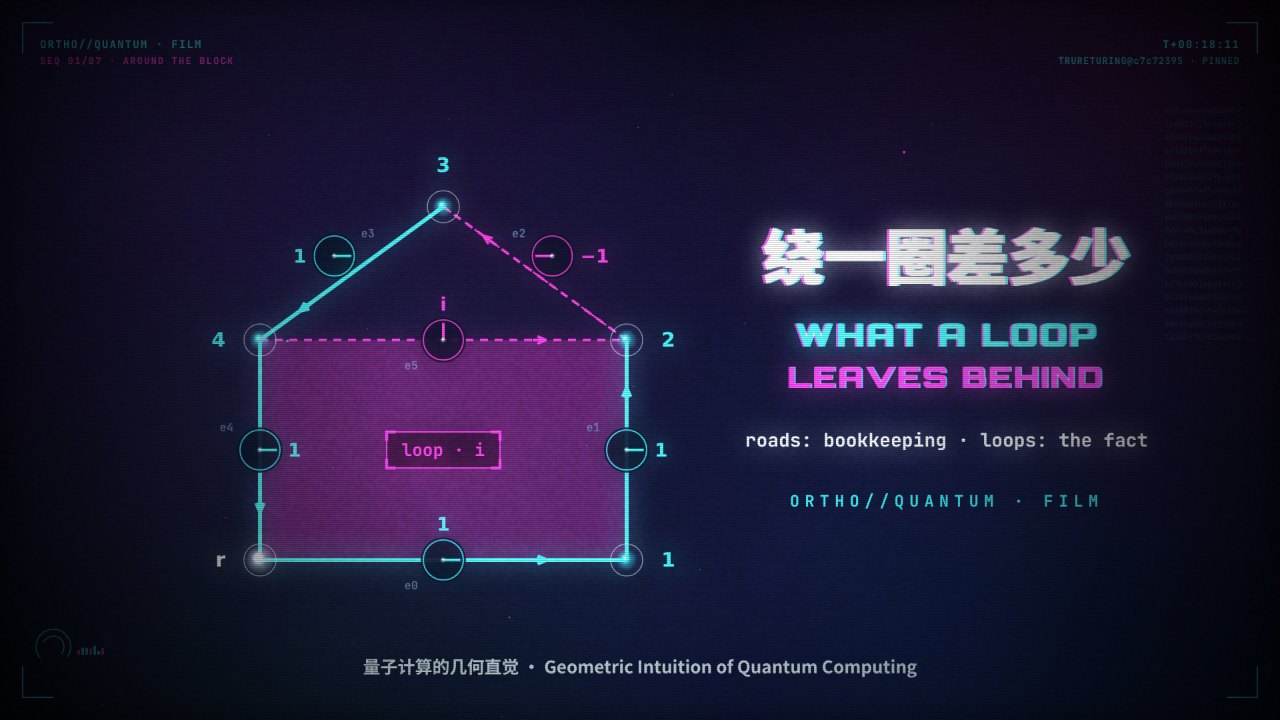
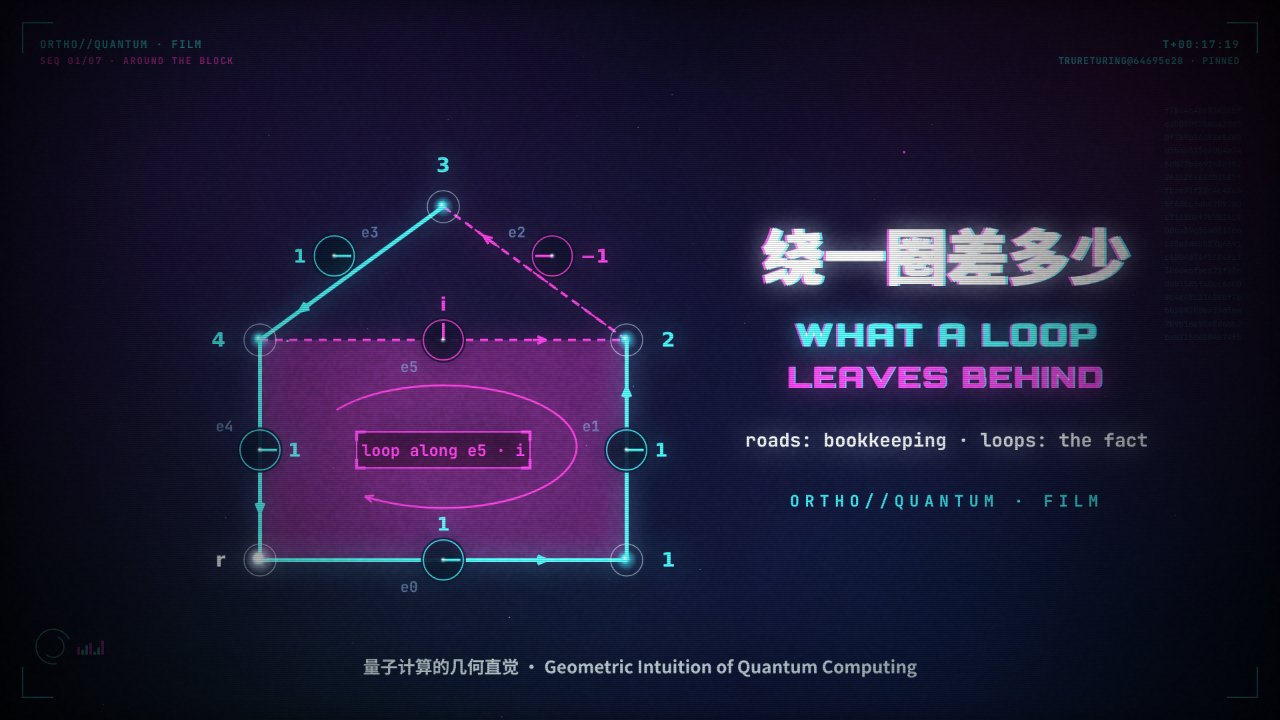
fix(films): 按复核修改 force-is-curvature
必须改：
- hook：HK_TURN 改为 [0, 30, 0, 60, 0]，转动与路牌一致，补底边左半段路牌 +0°
- tree：灰字 rp(1) = 1 改为 u ≡ 1 ⇒ rp ≡ 1
- loop：旁白改为“表盘都在转，沿每个回路连乘仍是 i 与 −1”，wobble 期间加用当前表盘现算的回路乘积读数
- loop：曲率只给最小回路，大圈叫和乐（ARGUED）
- edge：第一句只说树定理是图上可交换相位，交换子规则在任意环里成立；画面加小字
- 中英图注：三条规则在绿框，逐站相消在琥珀色框；同步各项改动与时长 2:30
建议改：
- order 芯片与旁白补上“× 这一步”；order 第 5 句切回 NUM，tree 第 4 句切到 ARGUED
- 方格回路加顺 e5 方向的环形箭头与“loop along e5 · i”（海报同步）
- 改名改用蓝色，与论证紫区分
- loop 第 1 句改为 by the inverse of its root phase
- 边名 22 px、小矩阵 24 px、补充说明 19 px
- 外圈引线终点移到五边形边上，不压 e3
- hook 加小字“转角由街规定，不由地面”
实测时长 2:30（150.12 s）；./tbook check --book quantum-geometry 0 错误。

Claude-Session: https://claude.ai/code/session_01FJGySq7rVWTRF4aH8AY9ro

diff --git a/books/quantum-geometry/films/force-is-curvature/scenes.js b/books/quantum-geometry/films/force-is-curvature/scenes.js
@@ -14,9 +14,10 @@
             ..... NamedTreePhaseTransport.selected_tree_transport (LEAN): conjuncts 1–3 (root gets 1, tree-edge
             reconstruction, endpoint covariance) are shown; the telescoping is the proof idea.
      loop   renaming each town by its inverse root phase sets the four tree roads to 1 and leaves the loop
-            coordinates rp(s e) u(e) rp(t e)⁻¹ on the chords: e5 → i, e2 → −1 (computed); that these do not move
-            under any rename is one line from conjunct 3 (computed); the word “curvature” is the physics name
-            (argued).
+            coordinates rp(s e) u(e) rp(t e)⁻¹ on the chords: e5 → i, e2 → −1 (computed); under further renames
+            the dials turn while the loop products, recomputed from the current dials, stay i (the square read
+            along e5) and −1 (one line from conjunct 3; computed); “curvature” for the smallest loops and
+            “holonomy” for bigger ones are the physics names (argued).
      edge   exact abelian phases on a graph only; the field-strength reading and non-abelian/continuum versions are
             literature results (argued); the exchange-rate story is a picture.
 
@@ -31,6 +32,8 @@ const FC_LEAN = {
   selected_tree_transport: 'D5/S3/Observer/AgencyHolonomy/NamedTreePhaseTransport.selected_tree_transport'
 };
 const FC_DEG = Math.PI / 180;
+/* the colour of a rename (a vertex gauge, a definition): blue, kept apart from the violet of argued claims */
+const FC_RN = mix(C.blue, C.white, 0.3);
 /* the map: towns and roads; ang = the turn u(e) in degrees */
 const FC_P = [[330, 780], [880, 780], [880, 450], [605, 250], [330, 450]];
 const FC_E = [
@@ -175,8 +178,8 @@ function fcDial(k, deg, a, o = {}) {
     else if (k === 3) txt(lab, x - R - 12, y + 10, { size: 28, fam: F.math, w: 700, align: 'right', c: col, a });
     else txt(lab, x + R + 12, y + 10, { size: 28, fam: F.math, w: 700, c: col, a });
   }
-  if (k === 0 || k === 5) txt(`e${k}`, x - R - 8, y + R + 14, { size: 17, fam: F.mono, w: 700, align: 'right', c: C.dim, a: a * 0.9 });
-  else txt(`e${k}`, k === 3 ? x + R + 10 : x - R - 10, y - R + 2, { size: 17, fam: F.mono, w: 700, align: k === 3 ? 'left' : 'right', c: C.dim, a: a * 0.9 });
+  if (k === 0 || k === 5) txt(`e${k}`, x - R - 8, y + R + 18, { size: 22, fam: F.mono, w: 700, align: 'right', c: C.dim, a: a * 0.9 });
+  else txt(`e${k}`, k === 3 ? x + R + 10 : x - R - 10, y - R + 2, { size: 22, fam: F.mono, w: 700, align: k === 3 ? 'left' : 'right', c: C.dim, a: a * 0.9 });
 }
 function fcTown(v, a, o = {}) {
   if (a <= 0.003) return;
@@ -191,8 +194,8 @@ function fcTown(v, a, o = {}) {
 function fcRename(v, deg, a) {
   if (a <= 0.003) return;
   const [x, y] = FC_P[v], R = 40;
-  ring(x, y, R, C.argued, a, 3);
-  line(x, y, x + R * Math.cos(deg * FC_DEG), y - R * Math.sin(deg * FC_DEG), C.argued, a, 4);
+  ring(x, y, R, FC_RN, a, 3);
+  line(x, y, x + R * Math.cos(deg * FC_DEG), y - R * Math.sin(deg * FC_DEG), FC_RN, a, 4);
 }
 /* the whole map with turns u′(e) = g(t) u(e) g(s)⁻¹ for the rename g (degrees per town) */
 function fcMap(a, g, o = {}) {
@@ -222,9 +225,9 @@ function fcTitle(S) {
 /*                            scene 1 · AROUND THE BLOCK                     */
 /* ======================================================================= */
 const HK = { x0: 300, y0: 300, x1: 860, y1: 720 };
-/* the walk: door at the bottom middle, counter-clockwise; the arrow picks up 0°, 30°, 0°, 60° on the four sides */
+/* the walk: door at the bottom middle, counter-clockwise; the arrow picks up 0° (bottom, right half), 30° (right), 0° (top), 60° (left), 0° (bottom, left half) */
 const HK_PATH = [[580, 760], [900, 760], [900, 260], [260, 260], [260, 760], [580, 760]];
-const HK_TURN = [0, 0, 30, 0, 60];
+const HK_TURN = [0, 30, 0, 60, 0];
 function hkWalk(p) {
   const seg = [];
   let L = 0;
@@ -269,11 +272,13 @@ SCENES.hook = S => {
     if (gone > 0) { line(x - R - 20, y - R - 20, x - R - 20 + 2 * (R + 20) * gone, y - R - 20 + 2 * (R + 20) * gone, C.white, da * 0.9, 6); }
   }
   /* line 2: street signs */
-  const sa = a * Q(S, 2, 'each street only tells you', 0.8);
+  const sa = a * Q(S, 2, 'street only tells you', 0.8);
   if (sa > 0.003) {
-    const signs = [[740, 760, '+0°'], [900, 510, '+30°'], [580, 260, '+0°'], [260, 510, '+60°']];
-    signs.forEach(([x, y, s], i) => chip(x, y, 108, 46, s, C.cyan, sa * clamp((u - phraseAt(S, 2, 'each street only tells you') - 0.25 * i) / 0.4), 24));
-    txt('each street: how to carry · 每条街：怎么搬', 1420, 820, { size: 24, fam: F.zh, w: 700, align: 'center', c: C.cyan, a: sa });
+    /* one sign per stretch of the walk, in the order walked: the same turns as HK_TURN */
+    const signs = [[740, 760, '+0°'], [900, 510, '+30°'], [580, 260, '+0°'], [260, 510, '+60°'], [420, 760, '+0°']];
+    signs.forEach(([x, y, s], i) => chip(x, y, 108, 46, s, C.cyan, sa * clamp((u - phraseAt(S, 2, 'street only tells you') - 0.25 * i) / 0.4), 24));
+    txt('each street: how to carry · 每条街：怎么搬', 1420, 800, { size: 24, fam: F.zh, w: 700, align: 'center', c: C.cyan, a: sa });
+    txt('the streets, not the ground, set the turn · 转角由街规定，不由地面', 1420, 840, { size: 20, fam: F.zh, w: 700, align: 'center', c: C.argued, a: sa });
   }
 };
 
@@ -290,7 +295,7 @@ function odHouse(x, y, v, a, col) {
 SCENES.order = S => {
   const u = S.u, a = fcFade(S);
   if (a <= 0) return;
-  badgeQ(S, [[0, null, 'computed'], [3, 'Lean checks', 'lean']]);
+  badgeQ(S, [[0, null, 'computed'], [3, 'Lean checks', 'lean'], [4, null, 'computed']]);
   /* the two houses and the swap */
   const fa = a * Q(S, 1, 'A field f', 0.7);
   odHouse(270, 470, fa > 0.01 ? 2 : null, a * clamp(fa + at(S, 0, 0.6)), C.cyan);
@@ -332,10 +337,10 @@ SCENES.order = S => {
     fcRich([['if  U f = f′ U  then  U f − f U = (f′ − f) U', C.white]], 970, 690, { size: 30, a: la * Q(S, 3, 'If f, carried', 0.6) });
     fcLean(970, 750, FC_LEAN.covariant_commutator_formula, la, { size: 20 });
     x = fcRich([['here  (f′ − f) U = ', C.cyan]], 970, 818, { size: 24, a: la * Q(S, 3, 'that shift times', 0.6), fam: F.mono });
-    fcMat(x + 4, 818, fcMul(fcSub(FC_F2, FC_F), FC_U), C.now, la * Q(S, 3, 'that shift times', 0.6), 20, 40);
+    fcMat(x + 4, 818, fcMul(fcSub(FC_F2, FC_F), FC_U), C.now, la * Q(S, 3, 'that shift times', 0.6), 24, 46);
   }
   const ma = a * at(S, 4, 0.6);
-  if (ma > 0.003) chip(485, 860, 640, 56, 'gap = change of f along the step · 差 = 场沿这一步的变化', C.now, ma, 22, F.zh);
+  if (ma > 0.003) chip(485, 860, 640, 56, 'gap = (change of f) × step · 差 = 场的变化 × 这一步', C.now, ma, 22, F.zh);
 };
 
 /* ======================================================================= */
@@ -347,14 +352,14 @@ SCENES.towns = S => {
   badgeQ(S, [[0, null, 'computed'], [1, 'Think of exchange rates', 'argued'], [2, null, 'computed']]);
   /* rename: town 2 turns by +90° on line 1 and back on line 2; town 1 turns a full circle on line 2 */
   const g = [0, 0, 0, 0, 0];
-  const r2 = Q(S, 1, 'rename its own coin', 1.6), back = Q(S, 2, 'Renaming its two ends', 1.0);
+  const r2 = Q(S, 1, 'rename its own coin', 1.6), back = Q(S, 2, 'renaming its ends', 1.0);
   g[2] = 90 * ease(r2) * (1 - ease(back));
   const spin = Q(S, 2, 'set it to anything', 3.0, 0.2);
   g[1] = 360 * ease(spin);
   const roads = FC_E.map((e, k) => {
     const hot2 = r2 > 0 && back < 1 && (e.s === 2 || e.t === 2);
     const hot1 = spin > 0 && spin < 1 && (e.s === 1 || e.t === 1);
-    return { col: k === 0 && spin > 0 && spin < 1 ? C.now : hot2 || hot1 ? C.argued : C.white, dial: 1 };
+    return { col: k === 0 && spin > 0 && spin < 1 ? C.now : hot2 || hot1 ? FC_RN : C.white, dial: 1 };
   });
   fcMap(a * at(S, 0, 0.8), g, { roads });
   fcRename(2, g[2], a * clamp(r2 * 3) * (1 - back));
@@ -364,9 +369,9 @@ SCENES.towns = S => {
   txt('u(e): a unit complex number per road', 1110, 252, { size: 24, fam: F.mono, w: 700, c: C.white, a: a * at(S, 0, 0.6) });
   txt('每条路一个单位复数 |u(e)| = 1', 1110, 292, { size: 24, fam: F.zh, w: 700, c: C.white, a: a * at(S, 0, 0.6) });
   const ra = a * Q(S, 1, 'rename its own coin', 0.6);
-  fcRich([["rename g:  u′(e) = g(end)·u(e)·g(start)⁻¹", C.argued]], 1110, 360, { size: 25, a: ra, fam: F.mono });
-  txt('town 2 renamed by i · 小镇 2 改名乘 i', 1110, 412, { size: 22, fam: F.zh, w: 700, c: C.argued, a: ra * (1 - back) });
-  txt('e1: 1 → i    e2: 1 → −i    e5: i → −1', 1110, 450, { size: 22, fam: F.mono, w: 700, c: C.argued, a: a * Q(S, 1, 're-quote', 0.6) * (1 - back) });
+  fcRich([["rename g:  u′(e) = g(end)·u(e)·g(start)⁻¹", FC_RN]], 1110, 360, { size: 25, a: ra, fam: F.mono });
+  txt('town 2 renamed by i · 小镇 2 改名乘 i', 1110, 412, { size: 22, fam: F.zh, w: 700, c: FC_RN, a: ra * (1 - back) });
+  txt('e1: 1 → i    e2: 1 → −i    e5: i → −1', 1110, 450, { size: 22, fam: F.mono, w: 700, c: FC_RN, a: a * Q(S, 1, 're-quote', 0.6) * (1 - back) });
   /* the analogy, labelled as such */
   const aa = a * Q(S, 1, 'Think of exchange rates', 0.6);
   if (aa > 0.003) {
@@ -375,7 +380,7 @@ SCENES.towns = S => {
     txt('小镇 = 一种货币 · 路 = 汇率 · 改名 = 换币值单位', 1110, 620, { size: 22, fam: F.zh, w: 700, c: C.argued, a: aa });
     txt('(here a rate is a turn on a circle · 这里的“汇率”是转角)', 1110, 660, { size: 18, fam: F.zh, w: 700, c: C.dim, a: aa });
   }
-  const na = a * Q(S, 2, 'means nothing by itself', 0.6);
+  const na = a * Q(S, 2, 'means nothing', 0.6);
   if (na > 0.003) chip(1460, 770, 700, 60, 'one road alone: any value · 单独一条路：任意值', C.now, na, 24, F.zh);
 };
 
@@ -387,7 +392,7 @@ const TR_ROUTE = [0, 4, 3];
 SCENES.tree = S => {
   const u = S.u, a = fcFade(S);
   if (a <= 0) return;
-  badgeQ(S, [[0, null, 'computed'], [2, 'Lean checks', 'lean']]);
+  badgeQ(S, [[0, null, 'computed'], [2, 'Lean checks', 'lean'], [3, null, 'argued']]);
   const ta = Q(S, 0, 'a tree of official roads', 0.8);
   const roads = FC_E.map(e => e.tree ? { col: mix(C.white, C.cyan, ta), lw: 3 + 4 * ta, a: 0.85 } : { col: C.dim, dash: ta > 0.2, a: 0.7, dial: 1 - 0.5 * ta });
   /* line 1: walk the route r → 4 → 3 */
@@ -407,7 +412,7 @@ SCENES.tree = S => {
   /* the table of root phases */
   panel(1080, 180, 760, 290, a * ta, C.cyan, 'ROOT PHASE · 根相位');
   txt('one tree route from r, multiplied · 沿唯一树路线连乘', 1110, 248, { size: 21, fam: F.zh, w: 700, c: C.dim, a: a * ta });
-  const show = Q(S, 1, "That is the town's root phase", 0.8);
+  const show = Q(S, 1, "that is the town's root phase", 0.8);
   ['r', '1', '2', '3', '4'].forEach((nm, v) => {
     const x = 1130 + v * 140;
     txt(nm, x, 316, { size: 28, fam: F.math, w: 700, align: 'center', c: v ? C.cyan : C.white, a: a * ta });
@@ -421,7 +426,7 @@ SCENES.tree = S => {
     panel(1080, 500, 760, 300, la, C.lean, 'ANY GRAPH, ANY TREE · 任意图、任意树');
     const rows = [['1  rp(r) = 1', 'the capital gets one'], ['2  tree road e:  rp(t e) = u(e)·rp(s e)', 'each tree road adds'], ['3  rename g:  rp(a) ↦ g(a)·rp(a)·g(r)⁻¹', 'renaming touches only the two ends']];
     rows.forEach(([f, en], i) => txt(f, 1104, 568 + i * 52, { size: 23, fam: F.mono, w: 700, c: C.white, a: la * Q(S, 2, en, 0.5) }));
-    txt('(+ 3 more: continuous, multiplicative, rp(1) = 1)', 1104, 718, { size: 17, fam: F.mono, w: 700, c: C.dim, a: la });
+    txt('(+ 3 more: continuous, multiplicative, u ≡ 1 ⇒ rp ≡ 1)', 1104, 718, { size: 19, fam: F.mono, w: 700, c: C.dim, a: la });
     fcLean(1104, 770, FC_LEAN.selected_tree_transport, la, { size: 19 });
   }
   /* line 3: telescoping */
@@ -429,13 +434,13 @@ SCENES.tree = S => {
   if (za > 0.003) {
     panel(1080, 500, 760, 300, za, C.now, 'TOWNS IN BETWEEN CANCEL · 中间相消');
     txt('rule 3, along a route r → v₁ → v₂ → a', 1104, 566, { size: 20, fam: F.mono, w: 700, c: C.dim, a: za });
-    const parts = [['g(a)', C.now], ['u', C.white], ['g(v₂)⁻¹', C.argued], [' · ', C.dim], ['g(v₂)', C.argued], ['u', C.white], ['g(v₁)⁻¹', C.argued], [' · ', C.dim], ['g(v₁)', C.argued], ['u', C.white], ['g(r)⁻¹', C.now]];
+    const parts = [['g(a)', C.now], [' u ', C.white], ['g(v₂)⁻¹', FC_RN], [' · ', C.dim], ['g(v₂)', FC_RN], [' u ', C.white], ['g(v₁)⁻¹', FC_RN], [' · ', C.dim], ['g(v₁)', FC_RN], [' u ', C.white], ['g(r)⁻¹', C.now]];
     const size = 26;
     let x = 1104; const y = 650, strike = Q(S, 3, 'takes back', 0.8);
     parts.forEach(([s, col]) => {
       const w = tw(s, size, F.math, 700);
       txt(s, x, y, { size, fam: F.math, w: 700, c: col, a: za });
-      if (col === C.argued && strike > 0) line(x - 2, y - 8, x - 2 + (w + 4) * strike, y - 8, C.white, za, 3);
+      if (col === FC_RN && strike > 0) line(x - 2, y - 8, x - 2 + (w + 4) * strike, y - 8, C.white, za, 3);
       x += w + 6;
     });
     fcRich([['→  ', C.white], ['g(a)', C.now], [' · (u u u) · ', C.white], ['g(r)⁻¹', C.now]], 1104, 740, { size: 28, a: za * strike });
@@ -454,13 +459,22 @@ function lpPoly(vs, a, fill, dash) {
   if (dash) { ctx.setLineDash([10, 8]); ctx.strokeStyle = C.mag; ctx.lineWidth = 2.5; ctx.stroke(); }
   ctx.restore();
 }
+/* the direction in which the square's loop reads i: along e5, 4 → 2 → 1 → 0 → 4 (clockwise on screen) */
+function lpLoopArrow(a) {
+  if (a <= 0.003) return;
+  const cx = 605, cy = 610, rx = 200, ry = 92, a0 = -2.5, a1 = 2.2;
+  ctx.save(); ctx.globalAlpha = a * 0.8; ctx.strokeStyle = C.mag; ctx.lineWidth = 3;
+  ctx.beginPath(); ctx.ellipse(cx, cy, rx, ry, 0, a0, a1, false); ctx.stroke(); ctx.restore();
+  const ex = cx + rx * Math.cos(a1), ey = cy + ry * Math.sin(a1), tx = -rx * Math.sin(a1), ty = ry * Math.cos(a1), tn = Math.hypot(tx, ty);
+  arrow(ex - 20 * tx / tn, ey - 20 * ty / tn, ex, ey, C.mag, a * 0.8, 3);
+}
 SCENES.loop = S => {
   const u = S.u, a = fcFade(S);
   if (a <= 0) return;
-  badgeQ(S, [[0, null, 'computed'], [2, 'what physicists call', 'argued']]);
+  badgeQ(S, [[0, null, 'computed'], [3, null, 'argued']]);
   /* line 0: comb — rename each town by rp(v)⁻¹, gradually; line 2: arbitrary renames wobble */
   const cmb = ease(Q(S, 0, 'rename every town', 2.6));
-  const wob = Q(S, 2, 'No renaming', 0.6) * (1 - at(S, 3, 0.8));
+  const wob = Q(S, 2, 'Rename however you like', 0.6) * (1 - at(S, 3, 0.8));
   const g = FC_RP.map((d, v) => -(d === 270 ? -90 : d) * cmb + wob * 70 * Math.sin(1.7 * S.u + 1.3 * v) * (v ? 1 : 0.6));
   const la = Q(S, 1, 'outside the tree', 0.8);
   /* the loops behind the map */
@@ -471,30 +485,34 @@ SCENES.loop = S => {
   for (let v = 1; v < 5; v++) fcRename(v, g[v], a * clamp(Q(S, 0, 'rename every town', 0.5)) * 0.85);
   /* the loop chips */
   if (la > 0.003) {
-    chip(605, 615, 170, 54, 'loop · i', C.mag, a * la, 26, F.mono);
-    ctx.save(); ctx.setLineDash([4, 6]); line(322, 252, 545, 294, C.mag, a * la * Q(S, 1, 'minus one', 0.6) * 0.7, 2); ctx.restore();
+    lpLoopArrow(a * la);
+    chip(605, 615, 260, 54, 'loop along e5 · i', C.mag, a * la, 24, F.mono);
+    ctx.save(); ctx.setLineDash([4, 6]); line(322, 252, 372, 420, C.mag, a * la * Q(S, 1, 'minus one', 0.6) * 0.7, 2); ctx.restore();
     chip(190, 240, 260, 54, 'outer loop · −1', C.mag, a * la * Q(S, 1, 'minus one', 0.6), 26, F.mono);
   }
   /* the panel */
   panel(1080, 180, 760, 330, a, C.cyan, 'COMBED FLAT · 梳平');
-  txt('rename g(v) = rp(v)⁻¹ · 按根相位倒数改名', 1110, 250, { size: 22, fam: F.zh, w: 700, c: C.argued, a });
+  txt('rename g(v) = rp(v)⁻¹ · 按根相位倒数改名', 1110, 250, { size: 22, fam: F.zh, w: 700, c: FC_RN, a });
   txt('tree roads e0 e1 e3 e4 → 1', 1110, 300, { size: 26, fam: F.mono, w: 700, c: C.cyan, a: a * Q(S, 0, 'Every tree road reads one', 0.6) });
   const ka = a * la;
   txt('chord = rp(start)·u·rp(end)⁻¹', 1110, 356, { size: 22, fam: F.mono, w: 700, c: C.mag, a: ka });
   txt('e5: i · i · (i)⁻¹ = i', 1110, 404, { size: 26, fam: F.mono, w: 700, c: C.mag, a: ka });
   txt('e2: i · 1 · (−i)⁻¹ = −1', 1110, 450, { size: 26, fam: F.mono, w: 700, c: C.mag, a: ka * Q(S, 1, 'minus one', 0.6) });
-  txt('c = m + 1 − n = 6 + 1 − 5 = 2 loops · 2 个回路', 1110, 492, { size: 19, fam: F.zh, w: 700, c: C.dim, a: ka * Q(S, 1, 'One number per loop', 0.6) });
-  /* line 2: invariance and the name */
-  const ia = a * Q(S, 2, 'No renaming', 0.6);
+  txt('c = m + 1 − n = 6 + 1 − 5 = 2 loops · 2 个回路', 1110, 492, { size: 19, fam: F.zh, w: 700, c: C.dim, a: ka * Q(S, 1, 'one per loop', 0.6) });
+  /* line 2: the dials move, the loop products, recomputed from the current dials, do not */
+  const ia = a * Q(S, 2, 'Rename however you like', 0.6);
   if (ia > 0.003) {
-    panel(1080, 540, 760, 230, ia, C.mag, 'WHAT NO RENAME MOVES · 改名动不了的');
-    txt('rule 3: g(start), g(end), g(r) all cancel', 1110, 610, { size: 22, fam: F.mono, w: 700, c: C.white, a: ia });
-    txt('由第 3 条一步推出：两端与首都的改名全抵消', 1110, 648, { size: 22, fam: F.zh, w: 700, c: C.white, a: ia });
-    const na = ia * Q(S, 2, 'what physicists call', 0.6);
-    txt('“curvature”: the physics name · 物理学的叫法', 1110, 706, { size: 22, fam: F.zh, w: 700, c: C.argued, a: na });
-    txt('(lattice gauge theory · 格点规范理论)', 1110, 740, { size: 18, fam: F.zh, w: 700, c: C.argued, a: na });
+    const dial = k => FC_E[k].ang + g[FC_E[k].t] - g[FC_E[k].s];
+    const sq = dial(5) - dial(1) - dial(0) - dial(4), outer = dial(2) + dial(3) + dial(4) + dial(0) + dial(1);
+    panel(1080, 540, 760, 250, ia, C.mag, 'DIALS TURN, LOOPS STAY · 表盘在转，回路不动');
+    txt(`dials now · 表盘现在   e5 ${fcMod(dial(5))}°   e2 ${fcMod(dial(2))}°`, 1110, 600, { size: 22, fam: F.zh, w: 700, c: C.white, a: ia });
+    txt(`∏ square along e5 = ${fcName(sq)}    ∏ outer = ${fcName(outer)}`, 1110, 642, { size: 25, fam: F.mono, w: 700, c: C.mag, a: ia });
+    txt('rule 3: the renames cancel around a loop · 由第 3 条一步推出', 1110, 680, { size: 18, fam: F.zh, w: 700, c: C.dim, a: ia });
+    const na = a * at(S, 3, 0.6);
+    txt('smallest loop: “curvature” · 最小的圈：曲率', 1110, 730, { size: 22, fam: F.zh, w: 700, c: C.argued, a: na });
+    txt('bigger loop: “holonomy” · 大圈：和乐（物理叫法）', 1110, 766, { size: 20, fam: F.zh, w: 700, c: C.argued, a: na });
   }
-  stamp('THE LOOP IS THE FACT', 1460, 830, Q(S, 3, 'The loop is the fact', 0.5), C.mag, 34, -0.05);
+  stamp('THE LOOP IS THE FACT', 1460, 840, Q(S, 4, 'The loop is the fact', 0.5), C.mag, 34, -0.05);
 };
 
 /* ======================================================================= */
@@ -510,8 +528,8 @@ SCENES.edge = S => {
   fcMap(a * 0.55, FC_RP.map(d => -(d === 270 ? -90 : d)), { roads: FC_E.map(e => e.tree ? { col: C.cyan, lw: 6 } : { col: C.mag, dash: true, lw: 4 }), capital: true });
   ctx.restore();
   const rows = [
-    { k: 0, col: C.cyan, en: 'exact U(1) phases on a graph', zh: '图上精确的 U(1) 相位，转角可交换', note: 'no limit, no smooth space · 没有极限，没有光滑空间' },
-    { k: 1, col: C.argued, en: 'loop ↔ field strength F; SU(N) loops', zh: '回路对上场强；不可交换的矩阵版本', note: 'literature results, not formalized here · 文献结果，本书未形式化' },
+    { k: 0, col: C.cyan, en: 'tree theorem: exact U(1) phases on a graph', zh: '树定理：图上精确的 U(1) 相位，转角可交换', note: 'commutator rule: any ring · 交换子：任意环 · no limit, no smooth space · 没有极限' },
+    { k: 1, col: C.argued, en: 'small loop ↔ field strength F; SU(N) loops', zh: '小回路对上场强；不可交换的矩阵版本', note: 'literature results, not formalized here · 文献结果，本书未形式化' },
     { k: 2, col: C.argued, en: 'exchange rates = a picture', zh: '汇率只是比方', note: 'a ladder for intuition, not a proof · 梯子，不是证明' }
   ];
   rows.forEach((rw, i) => {
@@ -543,7 +561,8 @@ FILM.poster = () => {
   lpPoly(LP_SQUARE, 1, 0.22, false);
   lpPoly(LP_PENT, 1, 0, true);
   fcMap(1, FC_RP.map(d => -(d === 270 ? -90 : d)), { roads: FC_E.map(e => e.tree ? { col: C.cyan, lw: 6, a: 0.9 } : { col: C.mag, dash: true, lw: 4, a: 0.9 }), capital: true });
-  chip(605, 615, 170, 54, 'loop · i', C.mag, 1, 26, F.mono);
+  lpLoopArrow(1);
+  chip(605, 615, 260, 54, 'loop along e5 · i', C.mag, 1, 24, F.mono);
   ctx.restore();
   txt(DATA.film.title_zh, 1420, 420, { size: 92, fam: F.zh, w: 900, align: 'center', c: C.white, ab: 4 });
   txt('WHAT A LOOP', 1420, 520, { size: 48, fam: F.orb, w: 900, align: 'center', c: C.cyan, ab: 3, ls: 5 });

diff --git a/books/quantum-geometry/en/ch18-spinors-and-gauge-curvature.md b/books/quantum-geometry/en/ch18-spinors-and-gauge-curvature.md
@@ -368,7 +368,7 @@ In $\operatorname{treeSupport}(s, t, T)$, the unique simple path from $r$ to $r$
 Working the commutator of 18.2 and the tree transport above by hand on one small map shows exactly what the next section pursues: the phases on tree branches can be renamed away, while the turn that comes back around a loop cannot.
 
 ::: {.film src="force-is-curvature"}
-**What a loop leaves behind (2 min 29 s).** The film opens with an amber arrow carried around a city block and a violet "dial on the wall of the universe" that gets struck out; this opening and the exchange-rate story that follows are labelled as pictures. Two houses and the swap $U = \begin{pmatrix} 0 & 1 \\ 1 & 0 \end{pmatrix}$ act on the field $f = \operatorname{diag}(2, 5)$: reading then stepping and stepping then reading differ by the amber $\begin{pmatrix} 0 & 3 \\ -3 & 0 \end{pmatrix}$, which is $(f' - f)U$ with $f' = \operatorname{diag}(5, 2)$ ([@prop-covariant-commutator]). On a map of five towns and six roads, each road's dial is a unit complex number; when the violet rename pointer turns town 2, the three roads touching it re-quote together. With capital $r$ and the four cyan tree roads, the root phases are $1, i, i, -i, i$, and the three rules (the capital gets $1$, each tree road adds its own turn, a rename touches only the two ends), together with the telescoping of the towns in between, appear in the green frame (properties 1–3 of [@thm-tree-phase-transport]). After renaming each town by its inverse root phase, the cyan tree roads all read $1$ and the two magenta dashed roads outside the tree keep $i$ and $-1$, the phases of the magenta square and the outer loop; under further arbitrary renames every dial turns while the two loop numbers stay put, a step that follows directly from property 3. All numbers in the film are computed on screen; calling the loop phase curvature and matching it with a field strength, and continuum gauge fields that do not commute, are literature results not formalized in this book.
+**What a loop leaves behind (2 min 30 s).** The film opens with an amber arrow carried around a city block, turning only on the two streets signed $+30^\circ$ and $+60^\circ$, and a violet "dial on the wall of the universe" that gets struck out; this opening and the exchange-rate story that follows are labelled as pictures. Two houses and the swap $U = \begin{pmatrix} 0 & 1 \\ 1 & 0 \end{pmatrix}$ act on the field $f = \operatorname{diag}(2, 5)$: reading then stepping and stepping then reading differ by the amber $\begin{pmatrix} 0 & 3 \\ -3 & 0 \end{pmatrix}$, which is $(f' - f)U$ with $f' = \operatorname{diag}(5, 2)$ ([@prop-covariant-commutator]). On a map of five towns and six roads, each road's dial is a unit complex number; when the blue rename pointer turns town 2, the three roads touching it re-quote together. With capital $r$ and the four cyan tree roads, the root phases are $1, i, i, -i, i$; the three rules (the capital gets $1$, each tree road adds its own turn, a rename touches only the two ends) appear in the green frame (properties 1–3 of [@thm-tree-phase-transport]), and the telescoping of the towns in between follows in an amber frame. After renaming each town by its inverse root phase, the cyan tree roads all read $1$ and the two magenta dashed roads outside the tree keep $i$ and $-1$: the magenta square, read along $e_5$ (the magenta loop arrow), gives $i$, and the outer loop gives $-1$. Under further arbitrary renames every dial turns, while the magenta readout, recomputed from the current dials, keeps both loop products at $i$ and $-1$, a step that follows directly from property 3. All numbers in the film are computed on screen; "curvature" for the turn around the smallest loops and "holonomy" for bigger ones are the physics names, and matching it with a field strength, as well as continuum gauge fields that do not commute, are literature results not formalized in this book.
 :::
 
 ## 18.4 Loop phases and anchored gauge equivalence {#sec-gauge-loop-coordinates}

diff --git a/books/quantum-geometry/zh/ch18-spinors-and-gauge-curvature.md b/books/quantum-geometry/zh/ch18-spinors-and-gauge-curvature.md
@@ -368,7 +368,7 @@ $$
 把 18.2 的交换子与这里的树输运放在一张小地图上手算一遍，就能看清下一节要追问的东西：树枝上的相位可以改名改掉，绕回来的那一圈改不掉。
 
 ::: {.film src="force-is-curvature"}
-**绕一圈差多少（2 分 29 秒）。** 开场拿着琥珀色的箭头绕街区一圈，紫色的“宇宙大表盘”被划掉，这一段与之后的汇率比方都标作比方。两座房子之间的对调 $U = \begin{pmatrix} 0 & 1 \\ 1 & 0 \end{pmatrix}$ 作用在场 $f = \operatorname{diag}(2, 5)$ 上：先读再走与先走再读相差琥珀色的 $\begin{pmatrix} 0 & 3 \\ -3 & 0 \end{pmatrix}$，正是 $(f' - f)U$，$f' = \operatorname{diag}(5, 2)$（[@prop-covariant-commutator]）。五座小镇、六条路的地图上，每条路的表盘是一个单位复数；紫色的改名指针拧动小镇 2 时，连着它的三条路一起重新报价。选首都 $r$ 与青色的四条树路后，根相位依次是 $1, i, i, -i, i$，三条规则（首都为 $1$、树路添上自己的转角、改名只动首尾两端）与中间小镇逐站抵消的式子出现在绿框里（[@thm-tree-phase-transport] 第 1–3 条）。按根相位的倒数改名后，青色树路全部读作 $1$，树外两条品红虚线上剩下 $i$ 与 $-1$，即品红方格与外圈两个回路的相位；再任意改名，表盘都在转，两个回路的数不动——这一步由第 3 条直接推出。片中数字都是屏幕上的计算；把回路相位叫作曲率并对上场强，以及不可交换的连续规范场，都是文献结果，本书没有形式化。
+**绕一圈差多少（2 分 30 秒）。** 开场拿着琥珀色的箭头绕街区一圈，箭头只在标着 $+30^\circ$ 与 $+60^\circ$ 的两条街上转动，紫色的“宇宙大表盘”被划掉，这一段与之后的汇率比方都标作比方。两座房子之间的对调 $U = \begin{pmatrix} 0 & 1 \\ 1 & 0 \end{pmatrix}$ 作用在场 $f = \operatorname{diag}(2, 5)$ 上：先读再走与先走再读相差琥珀色的 $\begin{pmatrix} 0 & 3 \\ -3 & 0 \end{pmatrix}$，正是 $(f' - f)U$，$f' = \operatorname{diag}(5, 2)$（[@prop-covariant-commutator]）。五座小镇、六条路的地图上，每条路的表盘是一个单位复数；蓝色的改名指针拧动小镇 2 时，连着它的三条路一起重新报价。选首都 $r$ 与青色的四条树路后，根相位依次是 $1, i, i, -i, i$；三条规则（首都为 $1$、树路添上自己的转角、改名只动首尾两端）出现在绿框里（[@thm-tree-phase-transport] 第 1–3 条），中间小镇逐站抵消的式子随后出现在琥珀色框里。按根相位的倒数改名后，青色树路全部读作 $1$，树外两条品红虚线上剩下 $i$ 与 $-1$：品红方格顺着 $e_5$ 的方向（品红环形箭头）读作 $i$，外圈读作 $-1$。再任意改名，每只表盘都在转，品红读数用当前表盘现算的两个回路连乘仍是 $i$ 与 $-1$——这一步由第 3 条直接推出。片中数字都是屏幕上的计算；绕最小回路的转角叫曲率、大回路的叫和乐，是物理上的叫法，把它对上场强以及不可交换的连续规范场，都是文献结果，本书没有形式化。
 :::
 
 ## 18.4 闭合回路相位与锚定规范等价 {#sec-gauge-loop-coordinates}
